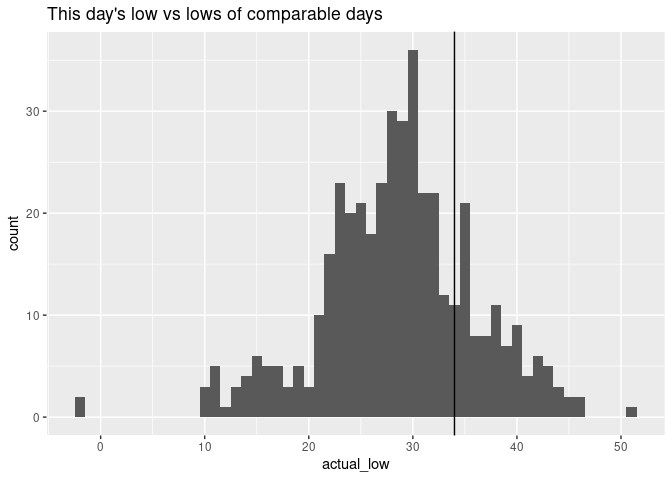
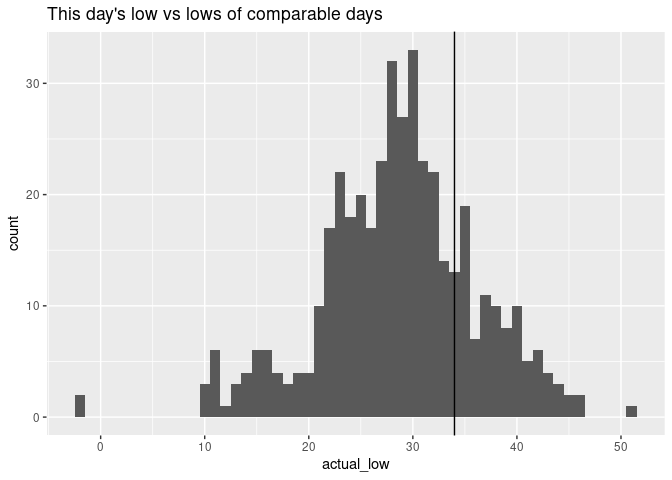
Update rendered quarto docs

diff --git a/readme.md b/readme.md
@@ -7,16 +7,16 @@
 
 - <https://www.ncei.noaa.gov/data/global-summary-of-the-day/doc/readme.pdf>
 
-# High/Low data for 2024-03-29
+# High/Low data for 2024-03-30
 
 ## Updated at
 
-2024-04-02 12:14:53 MDT
+2024-04-03 12:14:44 MDT
 
 ## Highs
 
-This day’s high of **59F** was in the **thirty-fifth percentile** for
-highs in similar days.  
+This day’s high of **64F** was in the **fiftieth percentile** for highs
+in similar days.  
 The last time the high was this high (or higher) was **2024-03-28**,
 when the high was **66F**.
 
@@ -26,8 +26,8 @@ when the high was **66F**.
 
 This day’s low of **34F** was in the **seventy-seventh percentile** for
 lows in similar days.  
-The last time the low was this low (or lower) was **2024-03-28**, when
-the low was **28F**.
+The last time the low was this low (or lower) was **2024-03-29**, when
+the low was **34F**.
 
 ![](readme_files/figure-commonmark/unnamed-chunk-6-1.png)
 

diff --git a/readme-gfm.md b/readme-gfm.md
@@ -12,7 +12,7 @@
 
 ## Updated at
 
-2024-04-01 12:14:27 MDT
+2024-04-02 12:14:53 MDT
 
 ## Highs
 
